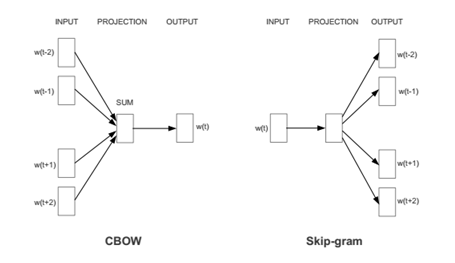
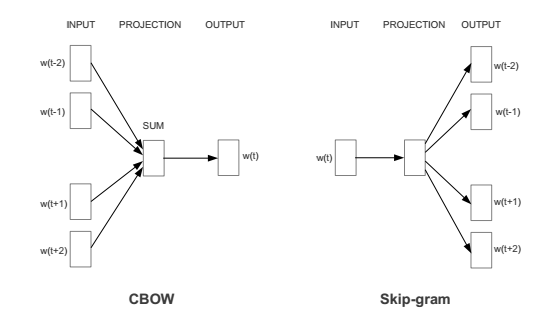
added more photos

diff --git a/_posts/tech/_posts/2016-07-01-word-embeddings.md b/_posts/tech/_posts/2016-07-01-word-embeddings.md
@@ -2,16 +2,16 @@
 header:
   teaser: posts/tech/w2v/Mikolov-GenderVecs.png
   image:  posts/tech/w2v/Mikolov-GenderVecs.png
-title: Word embeddings
+title: Meanings are Vectors
 author: Sanjay Meena
 layout: single
 sitemap: true
 published: false
-excerpt: Word embeddings
+excerpt: A recent big idea in natural language processing is that "meanings are vectors" . Word embeddings are one of the most exciting area of research in deep learning.
 categories: [Tech]
 tags: [NLP, Deep Learning]
 keywords:  NLP, deep learning, w2v, word2vector, word embeddings
-description : Word embeddings
+description : A recent big idea in natural language processing is that "meanings are vectors" . Word embeddings are one of the most exciting area of research in deep learning.
 ---
 
 <script type="text/javascript"
@@ -23,10 +23,11 @@ description : Word embeddings
 * TOC
 {:toc}
 
+# Introduction
+A recent big idea in natural language processing is that "meanings are vectors" . The approximate meaning of a word or phrase can be represented as a vector in a multi-dimensional space. Vectors that are close to each other represent similar meanings. 
+
 # Neural Word Embeddings
-
-
-Word embeddings are one of the most exciting area of research in deep learning 
+Word embeddings are one of the most exciting area of research in deep learning.
 
 A neural word embedding $$ W: \mathrm{words} \to \mathbb{R}^n $$ is a paramaterized function mapping words in some language to high-dimensional vectors (perhaps 200 to 500 dimensions). For example, we might find:
 
@@ -36,22 +37,20 @@ $$ \mathsf{W("pear")=(0.0, -0.1, 0.1, ...)} $$
 
 In essence, it is a numerical vector to represent a word.
 
+Their applications extends beyond sentences. It can be applied just as well to genes, code, likes, playlists, social media graphs and other verbal or symbolic series in which patterns may be discerned.
 
-Word2vec’s applications extends beyond sentences. It can be applied just as well to genes, code, likes, playlists, social media graphs and other verbal or symbolic series in which patterns may be discerned.
+The purpose and usefulness of word embeddings is to group the vectors of similar words together in vectorspace. That is, it detects similarities mathematically.These vectors are distributed numerical representations of word features, features such as the context of individual words. And, all this is done without human intervention. 
 
-The purpose and usefulness of Word2vec is to group the vectors of similar words together in vectorspace. That is, it detects similarities mathematically. Word2vec creates vectors that are distributed numerical representations of word features, features such as the context of individual words. It does so without human intervention.
+Word clusters can form the basis of search, sentiment analysis and recommendations in such diverse fields as scientific research, legal discovery, e-commerce and customer relationship management.
 
-## Different variants of word embeddings
+Now we will look at different variants of word embeddings.
 
-### Word2Vec
+## Word2Vec
 
 Word2vec is a two-layer neural net that processes text. The input to the network is a text corpus and its output is a set of vectors: <b>feature vectors</b> for words in that corpus. Word2vec is not a deep neural network per se, however it is very useful as it turns text into a numerical form that that deep networks can understand.
 
-[<img src="/images/posts/tech/w2v/neural_net.png" height = "200" width="500">](/images/posts/tech/w2v/neural_net.png)
-
-<i>Figure : Two layer neural network with one hidden layer</i>
-
-
+[<img src="/images/posts/tech/w2v/neural_net.png" height = "300" width="300">](/images/posts/tech/w2v/neural_net.png)
+<figcaption>Figure : Two layer neural network with one hidden layer</figcaption>
 
 The motivation behind Word2vec is  captured by Firth’s hypothesis from 1957: 
 
@@ -65,20 +64,17 @@ Words can be considered as discrete states and then we are simply looking for th
 
 Given enough data, usage and contexts, Word2vec can make highly accurate guesses about a word’s meaning based on past appearances. 
 
-
 Those guesses can be used to establish a word’s association with other words in terms of vector arithmetics. 
 For example: 
 
  $$ W(``\text{woman}\!") - W(``\text{man}\!") ~\simeq~ W(``\text{queen}\!") - W(``\text{king}\!") $$ 
 
-Word clusters can form the basis of search, sentiment analysis and recommendations in such diverse fields as scientific research, legal discovery, e-commerce and customer relationship management.
-
 
 [<img src="/images/posts/tech/w2v/Mikolov-AnalogyTable.png" height = "300" width="500">](/images/posts/tech/w2v/Mikolov-AnalogyTable.png)
+<figcaption>Figure: Relationship pairs in a word embedding. From Mikolov et al. (2013b).</figcaption>
 
-<i>Figure: Relationship pairs in a word embedding. From Mikolov et al. (2013b).</i>
 
-#### Word2Vec Architectures
+### Word2Vec Architectures
 Word2vec trains words against other words that neighbor them in the input corpus.
 
 W2V comes in two flavors: 
@@ -90,32 +86,77 @@ W2V comes in two flavors:
     * This method can also work well with small amount of the training data. It can also represents rare words or phrases pretty well.
 
 
-[<img src="/images/posts/tech/w2v/w2v_train_types.png" height = "450" width="700">](/images/posts/tech/w2v/w2v_train_types.png)
+[<img src="/images/posts/tech/w2v/w2v_train_types.png" height = "350" width="600">](/images/posts/tech/w2v/w2v_train_types.png)
+<figcaption>Figure: Architecture for the CBOW and Skip-gram method. W(t) is the current word, while w(t-2), w(t-1), etc. are the surrounding words.</figcaption>
 
 
-<i>Figure: Architecture for the CBOW and Skip-gram method. W(t) is the current word, while w(t-2), w(t-1), etc. are the surrounding words. </i>	
+References:
+
+* [http://arxiv.org/pdf/1301.3781.pdf](http://arxiv.org/pdf/1301.3781.pdf)
+* [http://multithreaded.stitchfix.com/blog/2015/03/11/word-is-worth-a-thousand-vectors/](http://multithreaded.stitchfix.com/blog/2015/03/11/word-is-worth-a-thousand-vectors/)
+* [http://www.slideshare.net/roelofp/041114-dl-nlpwordembeddings](http://www.slideshare.net/roelofp/041114-dl-nlpwordembeddings)
+* [https://github.com/3Top/word2vec-api#where-to-get-a-pretrained-models](https://github.com/3Top/word2vec-api#where-to-get-a-pretrained-models)
+<hr>
+## Glove
+Stanford’s GloVe: [Global Vectors for Word Representation](http://www-nlp.stanford.edu/pubs/glove.pdf)  is an unsupervised learning algorithm for obtaining vector representations for words. 
+
+Training is performed on aggregated global word-word co-occurrence statistics from a corpus, and the resulting representations showcase interesting linear substructures of the word vector space.
+
+[Levy et al.](http://www.aclweb.org/anthology/Q15-1016) reported that there is no significant performance difference between different word embeddings implementations like Glove, Word2vec etc. 
+
+In my work on some classification tasks, i found Glove to perform better than Word2vec . I had used  publicly available models for [word2vec](https://code.google.com/archive/p/word2vec/) and [Glove](http://nlp.stanford.edu/projects/glove/)
 
 
-* References:
-	* [http://arxiv.org/pdf/1301.3781.pdf](http://arxiv.org/pdf/1301.3781.pdf)
-    * [http://multithreaded.stitchfix.com/blog/2015/03/11/word-is-worth-a-thousand-vectors/](http://multithreaded.stitchfix.com/blog/2015/03/11/word-is-worth-a-thousand-vectors/)
-    * [http://www.slideshare.net/roelofp/041114-dl-nlpwordembeddings](http://www.slideshare.net/roelofp/041114-dl-nlpwordembeddings)
-    * [https://github.com/3Top/word2vec-api#where-to-get-a-pretrained-models](https://github.com/3Top/word2vec-api#where-to-get-a-pretrained-models)
-
-### Glove
-
-* References
-	* [http://www-nlp.stanford.edu/pubs/glove.pdf](http://www-nlp.stanford.edu/pubs/glove.pdf)
-
-### Dependency based word embeddings
+## Dependency based word embeddings
 
 
-## Extensions of Word Embeddings
+Current models like word2vec, glove are based solely on linear contexts. In this work, Levy and Goldberg have generalized the skip-gram model with negative sampling introduced by Mikolov et al. to include arbitrary context. Specifically they have experimented with syntactic context.
+
+The original implementation of Skip-Gram assumes bag-of-words contexts, that is, neighboring words.
+
+Dependency-based embeddings are qualitatively different from the original embeddings.
+
+[<img src="/images/posts/tech/w2v/wordembeddings-dependency-based.png" height = "300" width="400">](/images/posts/tech/w2v/wordembeddings-dependency-based.png)
+<figcaption>Figure: Dependency-based context extraction example. Omer Levy and Yoav Goldberg</figcaption>
+
+
+The dependency based embeddings are less topical and exhibit more functional similarity than the original skip-gram embeddings.
+
+[<img src="/images/posts/tech/w2v/w2v_dependency_based.png" height = "350" width="450">](/images/posts/tech/w2v/w2v_dependency_based.png)
+<figcaption>Figure: Embedding Similarity with Different Contexts</figcaption>
+
+
+Code, Word Embeddings and Demo can be found at [Omer Levy's blog](https://levyomer.wordpress.com/2014/04/25/dependency-based-word-embeddings/)
+
+## Extensions of Word Embeddings beyond words
+
+The word2vec model has been extened to work beyond different 
 
 ### Paragraph Vector 
 
-[<img src="/images/posts/tech/w2v/gensim_doc.jpeg" height = "450" width="700">](/images/posts/tech/w2v/gensim_doc.jpeg)
+[The paragraph vectors](https://cs.stanford.edu/~quocle/paragraph_vector.pdf) are inspired by the methods for learning the word vectors.
+They learn unsupervised representations of arbitrarily-long paragraphs/documents, based on an extension of the word2vec model. 
+
+
+
+Paragraph Vectors
+
+<figure class="half">
+    <a href="/images/posts/tech/w2v/sentence2vec0.png"><img src="/images/posts/tech/w2v/sentence2vec0.png"></a>
+    <a href="/images/posts/tech/w2v/sentence2vec0.png"><img src="/images/posts/tech/w2v/sentence2vec0.png"></a>
+    <figcaption>Mikolov</figcaption>
+    <figcaption>Mikolov</figcaption>
+</figure>
+
+
+#### Gensim Doc2Vec
+
+Gensim Doc2Vec
+
+[<img src="/images/posts/tech/w2v/gensim_doc.jpeg" height = "400" width="400">](/images/posts/tech/w2v/gensim_doc.jpeg)
 
 
 ### Skip Though Vectors
+
+[<img src="/images/posts/tech/w2v/skip-thought.png" height = "450" width="700">](/images/posts/tech/w2v/skip-thought.png)
 
